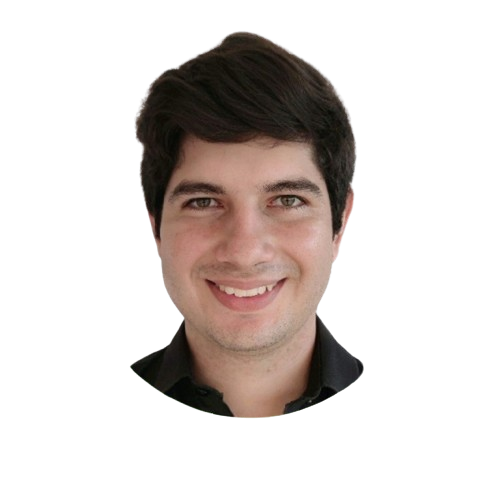
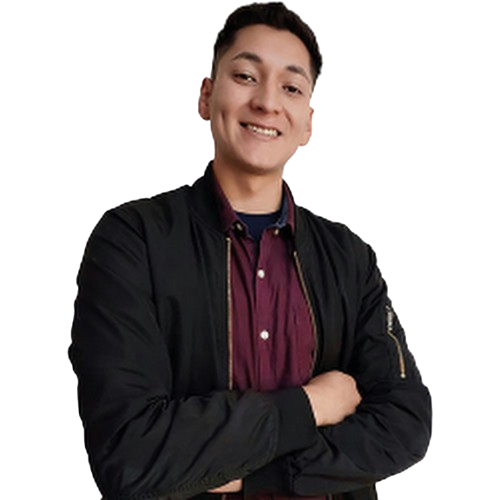
team add pri

diff --git a/src/i18n/locales/es.ts b/src/i18n/locales/es.ts
@@ -176,23 +176,22 @@ export const esTranslations = {
   team: {
     title: "Conoce a Nuestro Equipo Experto",
     subtitle: "Expertos en tecnología listos para innovar",
-    member1: {
-      name: "Carlos Rodríguez",
-      position: "Arquitecto de Software",
-      description:
-        "Más de 15 años de experiencia en desarrollo de software y arquitectura de sistemas.",
-    },
-    member2: {
-      name: "Ana Martínez",
-      position: "Ingeniera en Robótica",
-      description: "Especializada en IA y sistemas de automatización robótica.",
-    },
-    member3: {
-      name: "David Kim",
-      position: "Especialista en IoT",
-      description:
-        "Experto en soluciones IoT y automatización de hogares inteligentes.",
-    },
+      "member1": {
+        "position": "CEO & Fundador",
+        "description": "Experto en domótica, desarrollo web y móvil."
+      },
+      "member2": {
+        "position": "Desarrollador Android Senior",
+        "description": "Desarrollador nativo de Android con más de 10 años de experiencia."
+      },
+      "member3": {
+        "position": "Diseñador 3D & Desarrollador Android",
+        "description": "Especialista en diseño 3D y desarrollo Android."
+      },
+      "member4": {
+        "position": "Experto en Soporte Técnico",
+        "description": "Ingeniero de sistemas especializado en soporte técnico y soluciones IT."
+      }
   },
   // About Section
   about: {

diff --git a/src/i18n/locales/en.ts b/src/i18n/locales/en.ts
@@ -310,22 +310,22 @@ export const enTranslations = {
     title: "Meet Our Expert Team",
     subtitle: "Technology experts ready to innovate",
     // Individual team member details
-    member1: {
-      name: "Charles Rodriguez",
-      position: "Software Architect",
-      description:
-        "15+ years of experience in software development and system architecture.",
+    "member1": {
+      "position": "CEO & Founder",
+      "description": "Expert in home automation, web, and mobile development."
     },
-    member2: {
-      name: "Anna Martinez",
-      position: "Robotics Engineer",
-      description: "Specialized in AI and robotics automation systems.",
+    "member2": {
+      "position": "Senior Android Developer",
+      "description": "Native Android developer with over 10 years of experience."
     },
-    member3: {
-      name: "David Kim",
-      position: "IoT Specialist",
-      description: "Expert in IoT solutions and smart home automation.",
+    "member3": {
+      "position": "3D Designer & Android Developer",
+      "description": "Specialist in 3D design and Android development."
     },
+    "member4": {
+      "position": "Technical Support Expert",
+      "description": "Systems engineer specialized in technical support and IT solutions."
+    }
   },
 
   /**

diff --git a/src/components/Team.tsx b/src/components/Team.tsx
@@ -54,6 +54,17 @@ const Team = () => {
         linkedin: 'https://www.linkedin.com/in/danielcaro2449584/',
         facebook: 'https://www.facebook.com/DECOCARO/'
       }
+    },
+    {
+      name: SITE_DATA.images.team.names[3],   
+      position: t('team.member4.position'),
+      image: SITE_DATA.images.team.member4,
+      description: t('team.member4.description'),
+      social: {
+        github: 'https://github.com/',
+        linkedin: 'https://www.linkedin.com/in//',
+        facebook: 'https://www.facebook.com//'
+      }
     }
   ];
 
@@ -99,7 +110,7 @@ const Team = () => {
 
         <Grid container spacing={4} alignItems="stretch">
           {teamMembers.map((member, index) => (
-            <Grid item xs={12} sm={6} md={4} key={member.name}>
+            <Grid item xs={12} sm={6} md={3} key={member.name}>
               <motion.div
                 initial={{ opacity: 0, y: 20 }}
                 whileInView={{ opacity: 1, y: 0 }}

diff --git a/src/constants/siteData.ts b/src/constants/siteData.ts
@@ -74,7 +74,8 @@ export const SITE_DATA = {
       member1: '/images/team/member1.png',
       member2: '/images/team/member2.png',
       member3: '/images/team/member3.png',
-      names: ['Juan Collantes', 'Alejandro Acevedo', 'Daniel Caro']
+      member4: '/images/team/member4.png',
+      names: ['Daniel Caro' , 'Juan Collantes', 'Alejandro Acevedo' , 'Ivan Tapia']
     },
     testimonials: {
       client1: 'https://images.pexels.com/photos/2379004/pexels-photo-2379004.jpeg',
